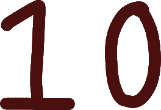
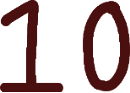
cleaned number assets, fixed portal world

diff --git a/core/src/com/quokkabounce/game/states/PlayState.java b/core/src/com/quokkabounce/game/states/PlayState.java
@@ -2997,7 +2997,7 @@ public class PlayState extends State implements InputProcessor{
                         bonusQuokkas.add(new BonusQuokka(3030, 400));
                         walls.add(new Wall(3280, -211, switches.get(1), 384, "asteroidBelt.png"));
                         walls.add(new Wall(3280, 384, "asteroidBelt.png"));
-                        portals.add(new Obstacle(3905, 510, "portal.png"));
+                        portals.add(new Obstacle(3955, 510, "portal.png"));
                         planets.add(new Obstacle(3930, 260, "greenPlanet.png"));
                         break;
                     case 7:
